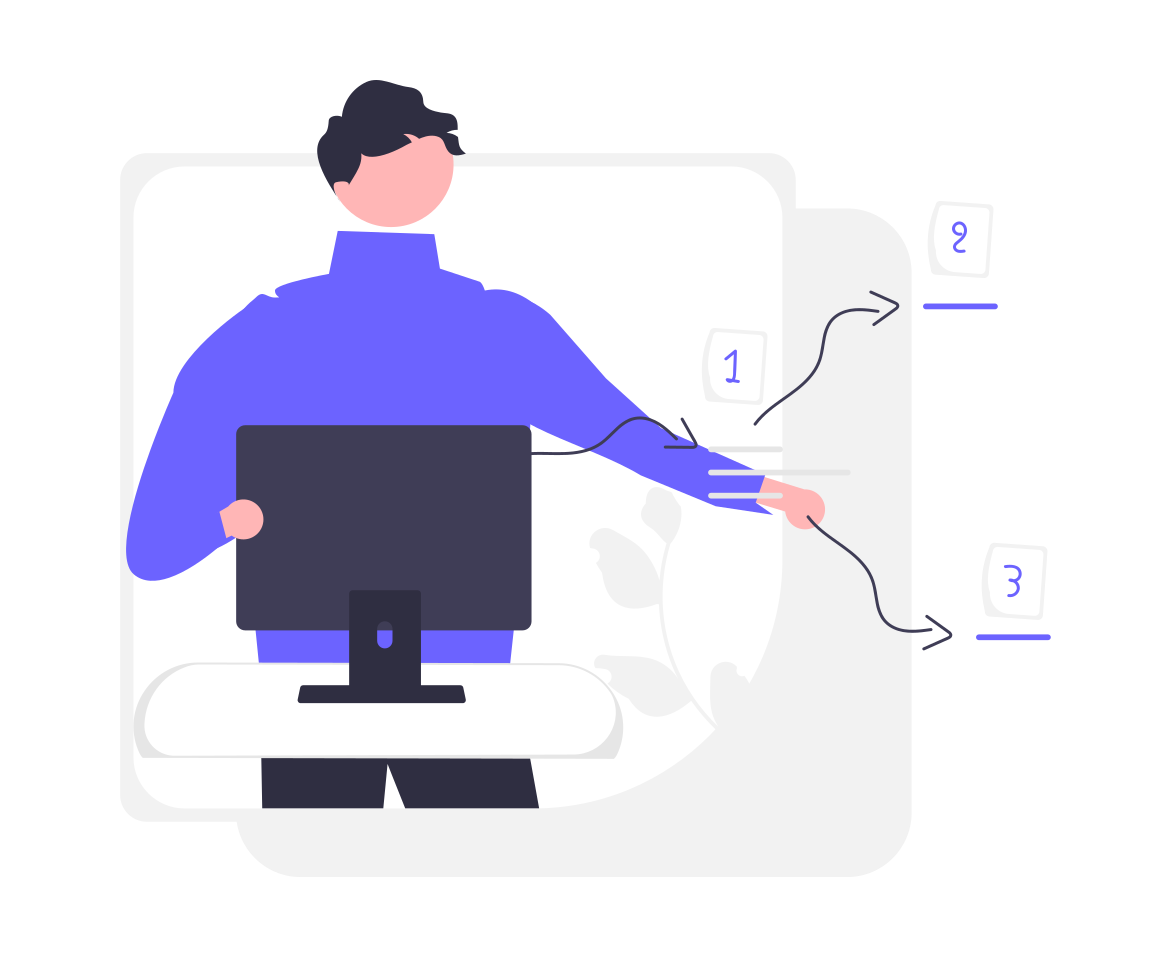
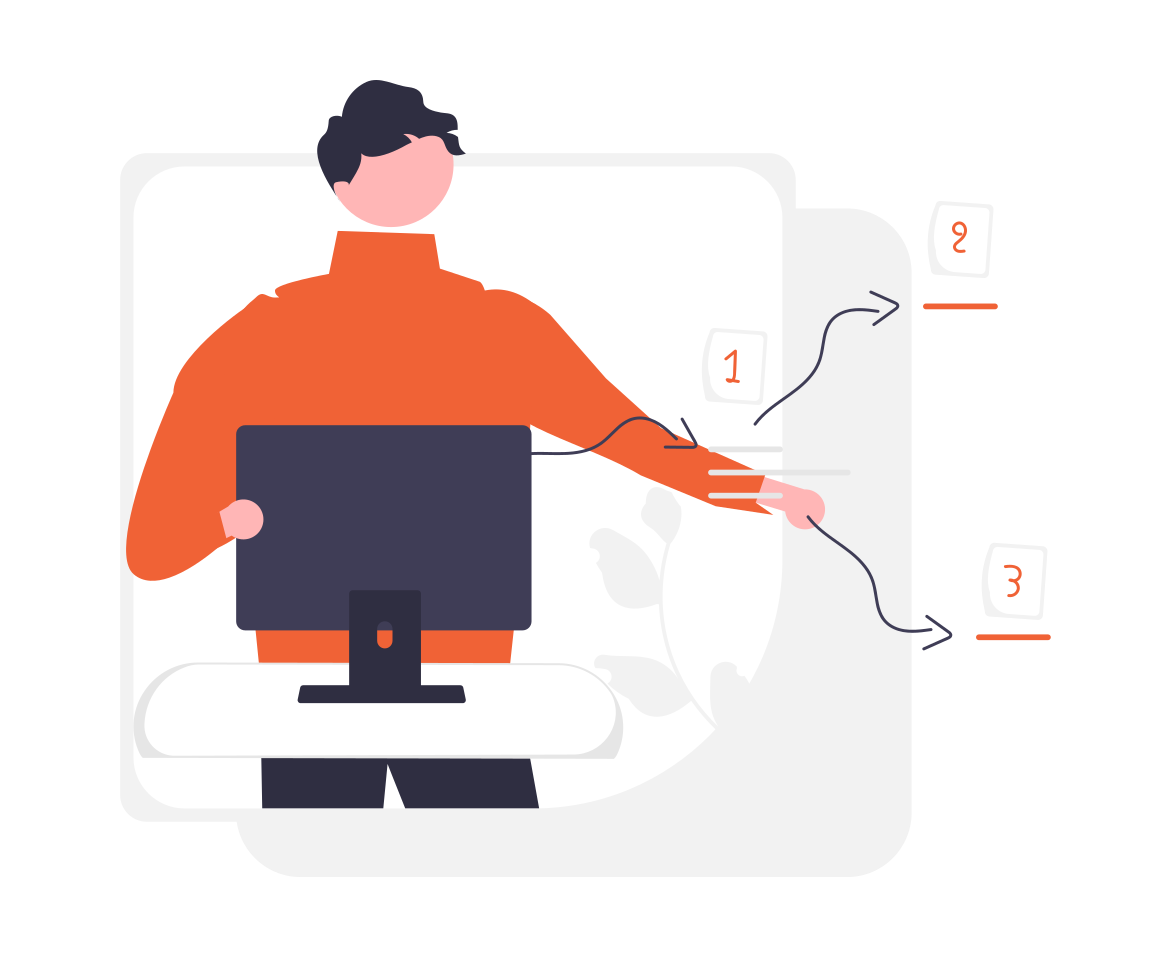
Finished the Projects section

diff --git a/index.html b/index.html
@@ -1,5 +1,6 @@
 <!DOCTYPE html>
 <html lang="en">
+
 <head>
     <meta charset="UTF-8">
     <meta http-equiv="X-UA-Compatible" content="IE=edge">
@@ -8,6 +9,7 @@
     <link rel="stylesheet" href="./styles.css">
     <script src="https://kit.fontawesome.com/c8e4d183c2.js" crossorigin="anonymous"></script>
 </head>
+
 <body>
     <section id="about-me">
         <nav>
@@ -45,7 +47,9 @@
                         Hey! I'm <span class="text--purple">Oscar Strachan</span> 👋
                     </h1>
                     <p class="about-me__info--para">
-                        I'm a <strong class="text--purple">computer science student</strong> with an interest in algorithmic problem-solving, web development and mentoring high-school students in STEM-related subjects.
+                        I'm a <strong class="text--purple">computer science student</strong> with an interest in
+                        algorithmic problem-solving, web development and mentoring high-school students in STEM-related
+                        subjects.
                     </p>
                     <div class="about-me__links">
                         <a href="" target=”_blank” class="about-me__link">
@@ -62,7 +66,7 @@
                         </a>
                     </div>
                     <figure class="about-me__img--container">
-                        <img src="./assets/image1.png" class = "about-me__img" alt="Dev productivity.">
+                        <img src="./assets/image1.png" class="about-me__img" alt="Dev productivity.">
                     </figure>
                 </div>
             </div>
@@ -125,5 +129,87 @@
             </div>
         </div>
     </section>
+    <section id="projects">
+        <div class="container">
+            <div class="row">
+                <h1 class="section__title">Here are some of my <span class="text--purple">projects</span></h1>
+                <ul class="project__list">
+                    <li class="project">
+                        <div class="project__wrapper">
+                            <img src="./assets/project1.png" alt="Final Correlation Matrix"
+                                class="project__img">
+                            <div class="project__description">
+                                <h3 class="project__description--title">Susquehanna International Group Algothon - 3rd place</h3>
+                                <h4 class="project__description--sub-title">Python and related libraries</h4>
+                                <p class="project__description--para">
+                                    Generated a heatmap matrix from given data using
+                                    numpy that found correlated financial instruments. Implemented a mean reversion
+                                    algorithm in Python that saw 15% return over new synthetic data. Curated a related
+                                    presentation that received the highest presentation score among all finalists.
+                                </p>
+                                <div class="project__description--links">
+                                    <a href="https://github.com/StrachanOscar/SIG-Algothon-2022" target="_blank" class="project__description--link">
+                                        <i class="fab fa-github"></i>
+                                    </a>
+                                </div>
+                            </div>
+                        </div>
+                    </li>
+                    <li class="project">
+                        <div class="project__wrapper">
+                            <img src="./assets/project2.png" alt="Final Correlation Matrix"
+                                class="project__img">
+                            <div class="project__description">
+                                <h3 class="project__description--title">Zoom Clone</h3>
+                                <h4 class="project__description--sub-title">ReactJS, Elastic UI, Redux, Firebase & ZEGOCLOUD</h4>
+                                <p class="project__description--para">
+                                    Generated a heatmap matrix from given data using
+                                    numpy that found correlated financial instruments. Implemented a mean reversion
+                                    algorithm in Python that saw 15% return over new synthetic data. Curated a related
+                                    presentation that received the highest presentation score among all finalists.
+                                </p>
+                                <div class="project__description--links">
+                                    <a href="https://github.com/StrachanOscar/SIG-Algothon-2022" target="_blank" class="project__description--link">
+                                        <i class="fab fa-github"></i>
+                                    </a>
+                                </div>
+                            </div>
+                        </div>
+                    </li>
+                    <li class="project">
+                        <div class="project__wrapper">
+                            <img src="./assets/project1.png" alt="Final Correlation Matrix"
+                                class="project__img">
+                            <div class="project__description">
+                                <h3 class="project__description--title">Susquehanna International Group Algothon</h3>
+                                <h4 class="project__description--sub-title">Python and related libraries</h4>
+                                <p class="project__description--para">
+                                    Generated a heatmap matrix from given data using
+                                    numpy that found correlated financial instruments. Implemented a mean reversion
+                                    algorithm in Python that saw 15% return over new synthetic data. Curated a related
+                                    presentation that received the highest presentation score among all finalists.
+                                </p>
+                                <div class="project__description--links">
+                                    <a href="https://github.com/StrachanOscar/SIG-Algothon-2022" target="_blank" class="project__description--link">
+                                        <i class="fab fa-github"></i>
+                                    </a>
+                                </div>
+                            </div>
+                        </div>
+                    </li>
+                </ul>
+            </div>
+        </div>
+    </section>
+    <footer>
+        <div class="row">
+            <a href="#">
+                <figure>
+                    <img src="" alt="">
+                </figure>
+            </a>
+        </div>
+    </footer>
 </body>
+
 </html>

diff --git a/styles.css b/styles.css
@@ -46,7 +46,7 @@ li {
 }
 
 .text--purple {
-    color: #6030b1;
+    color: #f06236;
 }
 
 section:nth-child(odd) {
@@ -80,7 +80,7 @@ nav {
 }
 
 .nav__link--anchor-primary {
-    background-color: #6030b1;
+    background-color: #f06236;
     padding: 8px 20px;
     border-radius: 50px;
     color: white;
@@ -88,12 +88,12 @@ nav {
 }
 
 .nav__link--anchor-primary:hover {
-    background-color: #5d3eff;
+    background-color: #f06236;
 }
 
 .personal__logo {
     font-size: 24px;
-    color:#6030b1;
+    color:#f06236;
     margin: 0 12px;
     font-weight: bold;
 }
@@ -212,4 +212,97 @@ nav {
 .language:hover .language__name {
     transform: scale(1);
     opacity: 1;
+}
+
+/* PROJECTS */
+
+.project__img {
+    width: 100%;
+    transition: all 500ms ease;
+}
+
+.project__wrapper {
+    display: flex;
+    box-shadow:0 20px 80px rgba(0, 0, 0, 0.45);
+    border-radius: 20px;
+    overflow: hidden;
+    position: relative;
+}
+
+.project__wrapper:before {
+    content: "";
+    position: absolute;
+    top: 0;
+    left: 0;
+    height: 100%;
+    width: 100%;
+    background-color: #1c1d25;
+    opacity: 0;
+    transition: opacity 450ms ease;
+    z-index: 2;
+}
+
+.project:hover .project__wrapper:before {
+    opacity: 0.7;
+}
+
+.project:hover .project__img {
+    transform: scale(1.07);
+    filter: blur(5px);
+}
+
+.project__list {
+    padding-top: 40px;
+}
+
+.project__description {
+    position: absolute;
+    top: 50%;
+    left: 90px;
+    transform: translateY(100);
+    max-width: 550px;
+    z-index: 3;
+    opacity: 0;
+    transition: transform 450ms, opacity 300ms ease;
+}
+
+.project:hover .project__description{
+    opacity: 1;
+    transform: translateY(-50%);
+}
+
+.project__description--title {
+    font-size: 40px;
+}
+
+.project__description--para {
+    margin: 16px 0;
+}
+
+.project__description--sub-title {
+    padding-top: 10px;
+    font-size: 20px;
+}
+
+.project__description--link {
+    font-size: 30px;
+    margin-right: 16px;
+    text-decoration: none;
+    color: #fff
+}
+
+.project__description--title,
+.project__description--sub-title,
+.project__description--para,
+.project__description--links {
+    text-align: left;
+    color: #fff;
+}
+
+.project {
+    margin-bottom: 135px;
+}
+
+.project:last-child {
+    margin-bottom: 40px;
 }
